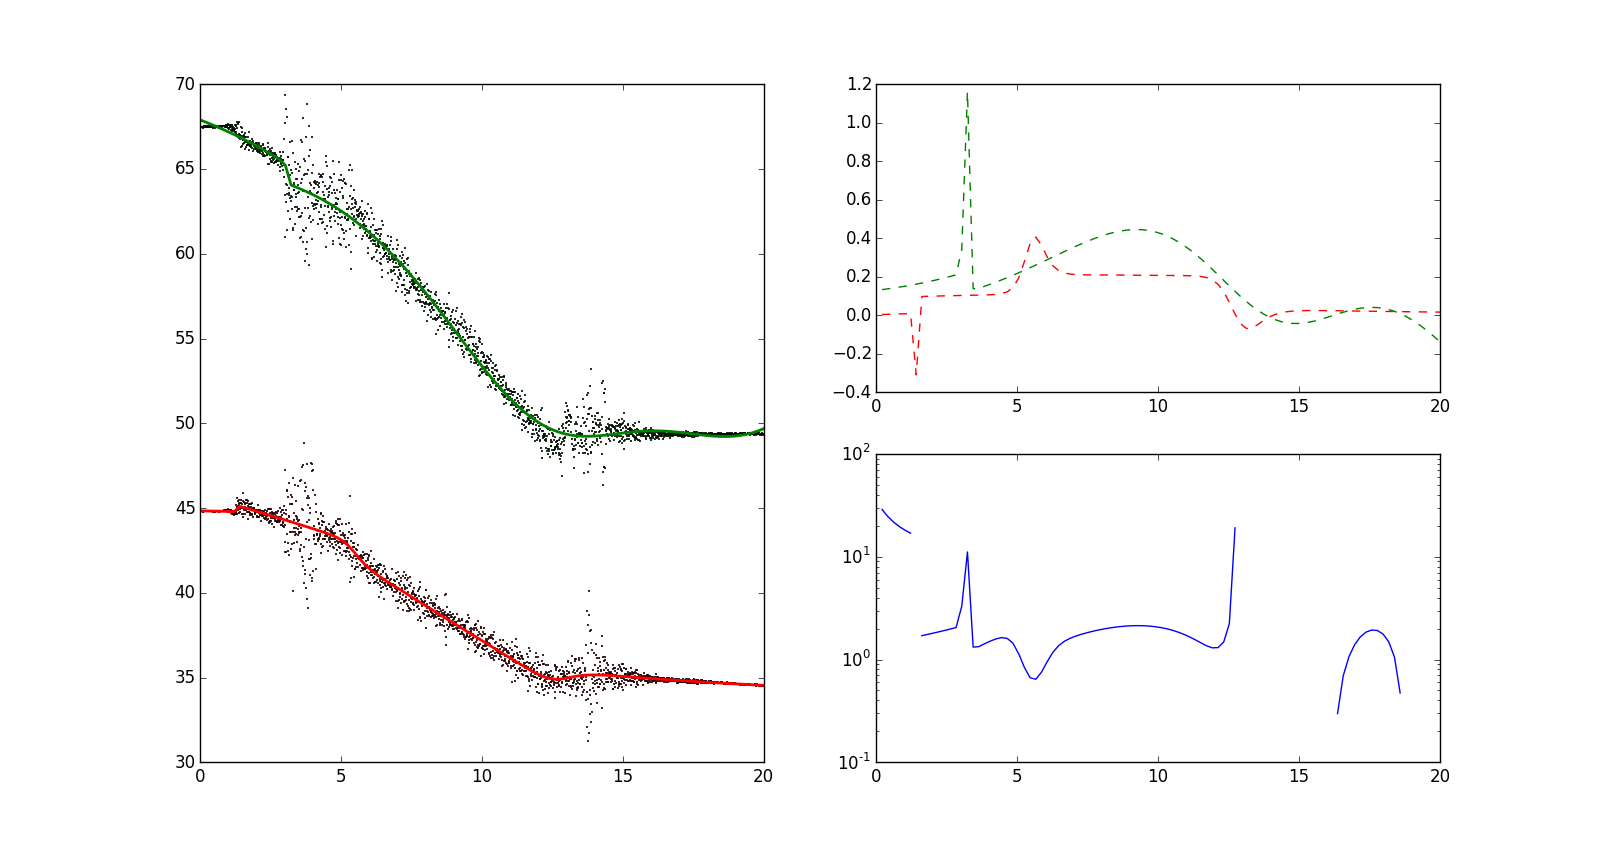
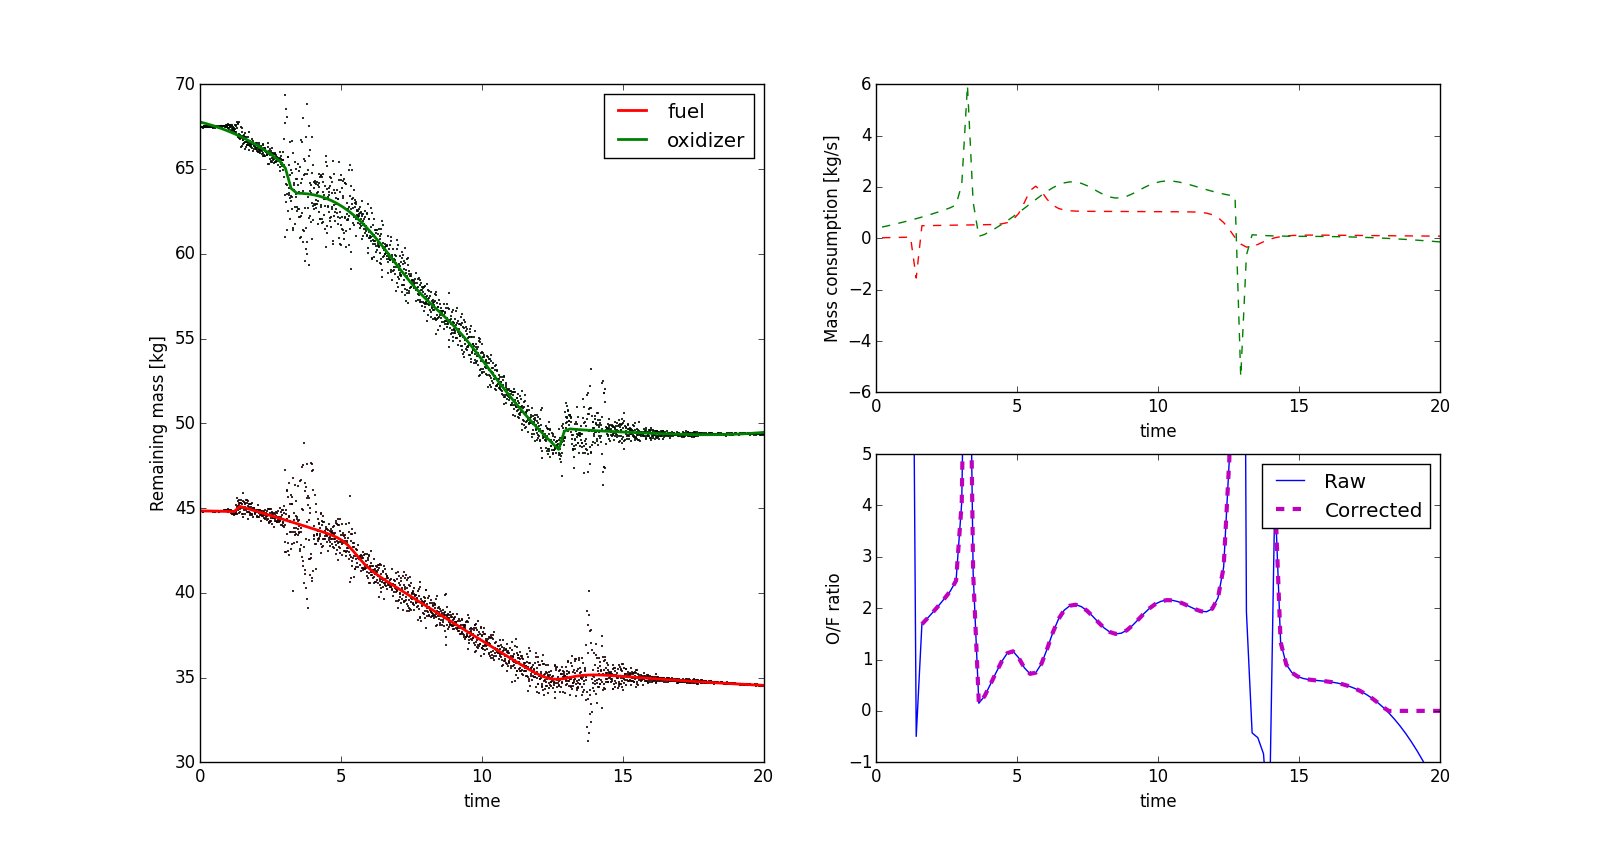
make plots a bit nicer

diff --git a/BPM5datafiltering.py b/BPM5datafiltering.py
@@ -86,10 +86,11 @@ def optfun_generator(y, X, *poly_lines):
     theta0 = np.concatenate(tuple(theta0))      # collapse to a single numpy array
     return theta0, optfun, _optfun
 
-gs = gridspec.GridSpec(2, 2)                         # used for subplotting
-resolution = 10         # points per second
+gs = gridspec.GridSpec(2, 2)                    # used for subplotting
+resolution = 5                                  # points per second
 X_grid = np.linspace(t_range[0], t_range[1], (t_range[1]-t_range[0]) * resolution)    # uniform x-grid to use for interpolation
-
+main_legend = dict()
+main_ax = plt.subplot(gs[:,0])
 # declaration of PolyLine object to hold information:
 #   order - degree of polynomial for line segment
 #   cutoff - initial x-coordinate for when to activate line segment
@@ -106,7 +107,6 @@ def fit(name, idx, color, *polylines, recompute_theta=False):
     :param recompute_theta: bool - controls whether theta should be recomputed or loaded from file
     :return: None
     """
-
     # functions to be used for fitting
     theta0, optfun, _optfun = optfun_generator(cropped_data[:, idx], cropped_data[:, 0], *polylines)
 
@@ -122,9 +122,8 @@ def fit(name, idx, color, *polylines, recompute_theta=False):
 
     dy_dx = np.diff(np.max(y_hat) - y_hat)
     _dy_dx = np.array(dy_dx)
-    plt.subplot(gs[:,0])
-    plt.plot(cropped_data[:, 0], cropped_data[:, idx], color + 'o', ms=1)
-    plt.plot(X_grid, y_hat, color, linewidth=2)
+    main_ax.plot(cropped_data[:, 0], cropped_data[:, idx], color + 'o', ms=1)
+    main_legend[name] = main_ax.plot(X_grid, y_hat, color, linewidth=2, label=name)
     plt.ylabel('Remaining mass [kg]')
     plt.xlabel('time')
 
@@ -140,10 +139,22 @@ oxidizer_y, oxidizer_diff =fit('oxidizer', 2, 'g', Polyline(2, 1), Polyline(2, 1
 
 OF = np.divide(oxidizer_diff, fuel_diff)
 
+# Negative mass consumption is a measurement artifact and is therefore corrected to 0
+oxidizer_diff_neg_only = oxidizer_diff.copy()
+oxidizer_diff_neg_only[oxidizer_diff < 0] = 0
+fuel_diff_neg_only = fuel_diff.copy()
+fuel_diff_neg_only[fuel_diff < 0] = 0
+OF_corrected = np.divide(oxidizer_diff_neg_only, fuel_diff_neg_only)
+
 plt.subplot(2,2,4)
 plt.plot(X_grid[1:], OF, 'b')
+plt.plot(X_grid[1:], OF_corrected, 'm--', linewidth=3)
+plt.legend(('Raw', 'Corrected'))
 plt.ylabel('O/F ratio')
 plt.xlabel('time')
 plt.ylim([-1, 5])
 
+
+main_ax.legend()
+#main_ax.legend(main_legend.values(), main_legend.keys())
 plt.show()
